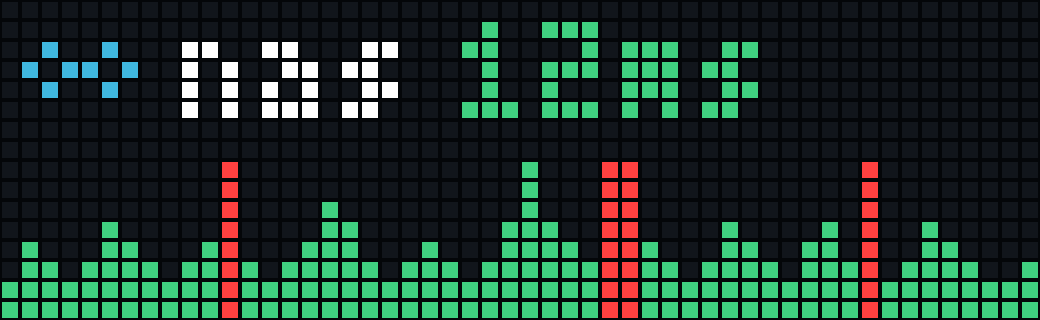
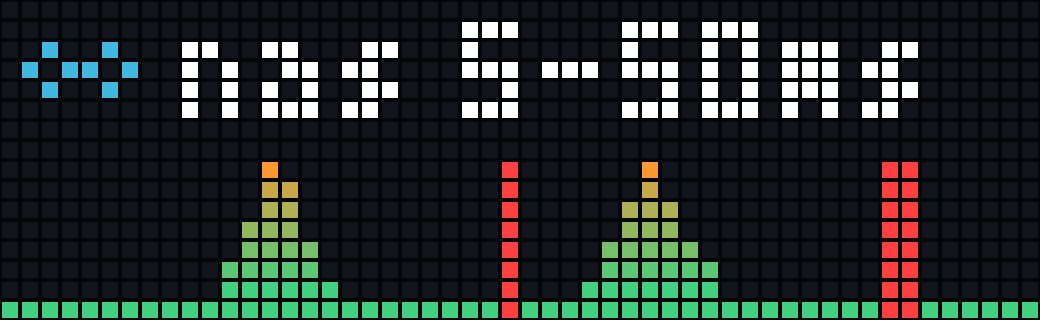
Gradient Graphs and Updated README

Changed region(s): [[0.0, 0.5, 1.0, 1.0], [0.4308, 0.0625, 0.8923, 0.375]]

diff --git a/docs/media/README.md b/docs/media/README.md
@@ -1,16 +1,16 @@
 # AWTRIX Hub media
 
-These images were captured from the real 52×16 TC002 framebuffer running NetworkMonitor 0.27. Screenshots are rendered at **1040×320** with a visible LED matrix: each source pixel occupies a 20×20 cell with a 16×16 LED face and dark gaps. Unlit cells use a dim neutral face so the grid remains visible. Lit-pixel colors and positions are preserved, without smoothing, added labels, or fabricated results. The same presentation is applied to the GIF.
+The page-layout screenshots were captured from the real 52×16 TC002 framebuffer running NetworkMonitor 0.27. The relative-gradient images and updated GIFs use actual framebuffer captures of a synthetic demo of the rendering introduced in 0.30. Screenshots are rendered at **1040×320** with a visible LED matrix: each source pixel occupies a 20×20 cell with a 16×16 LED face and dark gaps. Unlit cells use a dim neutral face so the grid remains visible. Lit-pixel colors and positions are preserved, without smoothing, added labels, or fabricated results. The same presentation is applied to the GIF.
 
 ## AWTRIX Hub cover
 
-[networkmonitor-cover.gif](networkmonitor-cover.gif) is the dedicated **4-second**, **40-frame**, **1040×320** cover (approximately 39 KB). It shows a readable HOME scene followed by a full-width response-history graph with red failure columns. The LED-grid rendering is the same as the screenshots.
+[networkmonitor-cover.gif](networkmonitor-cover.gif) is the dedicated **4-second**, **40-frame**, **1040×320** cover (about 19 KB). It shows a readable HOME scene followed by a full-width relative response-history graph with green-to-orange peaks and red failure columns. The LED-grid rendering is the same as the screenshots.
 
 ![NetworkMonitor Hub cover](networkmonitor-cover.gif)
 
 Still images: [HOME](networkmonitor-cover-home.png) and [history](networkmonitor-cover-history.png).
 
-These cover scenes were rendered on the actual TC002 by a [dedicated demo script](../../tools/NetworkMonitorCover.ax). The IP `192.0.2.1`, host `nas`, counters, response time, and populated history are **synthetic promotional data**, not measured network results. The production script and all its configuration values were restored and compared with the pre-capture backups afterward. The older screenshot series below remains a separate set of real observations with temporary demonstration hosts.
+The HOME cover scene and relative-history scene were recorded on the actual TC002 in separate temporary demos. The cover combines those recordings with an editorial cut. The IP `192.0.2.1`, host `nas`, counters, response times, and populated history are **synthetic promotional data**, not measured network results. The production script and all its configuration values were restored and compared with the pre-capture backups afterward. The older screenshot series below remains a separate set of real observations with temporary demonstration hosts.
 
 ## Files
 
@@ -21,8 +21,7 @@ These cover scenes were rendered on the actual TC002 by a [dedicated demo script
 | NODES / TCP | [nodes-tcp.png](nodes-tcp.png) | [nodes-tcp-with-icon.png](nodes-tcp-with-icon.png) |
 | NODES / HTTP | [nodes-http.png](nodes-http.png) | [nodes-http-with-icon.png](nodes-http-with-icon.png) |
 
-[networkmonitor-demo.gif](networkmonitor-demo.gif) is a looping **26-second**, **5 fps**, **1040×320** animation showing HOME, ALERTS, TCP history, and HTTP results. It combines short recordings of these pages; scene changes are editorial cuts, while text movement within each scene comes from the device. Short page recordings hold their last frame until the next scene.
-
+[networkmonitor-demo.gif](networkmonitor-demo.gif) is a looping **10.8-second**, **10 fps**, **1040×320** animation showing HOME followed by stable, slightly varying and strongly varying relative response histories. These are synthetic demonstrations captured from the device, joined with editorial cuts. It replaces the older page-tour GIF.
 ![NetworkMonitor demonstration](networkmonitor-demo.gif)
 
 ## Capture setup
@@ -42,3 +41,7 @@ These actual TC002 framebuffer captures show synthetic histories using the accep
 - [Large 5–50 ms changes](graph-relative-spikes-device.png): orange peaks, greener falling values and red failures.
 
 The original installed source and every stored configuration value were restored and compared exactly after capture.
+
+## Rendering the updated media
+
+`tools/render_hub_media.py --home <home-capture.json> --relative <relative-capture.json>` renders the privacy-safe framebuffer recordings into PNGs and raw RGB sequences for GIF encoding. The source JSON recordings remain local; they are not shipped with the repository. No device configuration is changed by this rendering step.

diff --git a/README.md b/README.md
@@ -2,7 +2,7 @@
 
 Keep an eye on your network from your AWTRIX NG clock. NetworkMonitor checks TCP services and HTTP endpoints, shows your public IP address, and cycles through a network overview, active failures, and per-host response history.
 
-**Platform:** Ulanzi TC002 · **Display:** 52 × 16 · **Version:** 0.27
+**Platform:** Ulanzi TC002 · **Display:** 52 × 16 · **Version:** 0.30
 
 **Authors:** Dr-Dream / ChatGPT / Codex
 
@@ -16,6 +16,7 @@ Keep an eye on your network from your AWTRIX NG clock. NetworkMonitor checks TCP
 - Public IPv4/IPv6 address retrieval through `http://ifconfig.me` by default.
 - Three pages: HOME, ALERTS, and NODES.
 - Colored results, failure reasons, response times, and a rolling history graph.
+- Relative green-to-orange history: stable responses stay green, large increases turn orange, and failed checks remain red.
 - Automatic page rotation or manual navigation with the knob.
 - Optional animated instance icons: house, VPN shield, server, WiFi, database, and cloud.
 - Configurable colors, intervals, timeouts, scrolling, and page timing.
@@ -77,6 +78,14 @@ The graph fills the lower half of the available interface area:
 - With no samples, a dim baseline is shown. With no configured targets, the page displays `--` and `0 targets`.
 
 The graph is drawn directly below the header across the full available width; the sketch uses punctuation only to suggest bars.
+
+### Relative response history in 0.30
+
+Actual device captures with synthetic data. Colors compare successful response times within each node’s retained history, rather than using fixed millisecond thresholds.
+
+| Stable 5 ms | Small 5–6 ms variation | Large 5–50 ms changes |
+| --- | --- | --- |
+| <img src="docs/media/graph-relative-flat-device.png" alt="Stable responses remain green" width="280"> | <img src="docs/media/graph-relative-jitter-device.png" alt="Small fluctuations receive a slight tint" width="280"> | <img src="docs/media/graph-relative-spikes-device.png" alt="Large increases reach orange; failed checks stay red" width="280"> |
 
 ### Optional instance icon
 
@@ -206,7 +215,7 @@ Complete source: [NetworkMonitor.ax](NetworkMonitor.ax). Implementation details:
 
 ## Screenshots and animation
 
-[Downloadable PNG screenshots and animated GIF](docs/media/README.md) show real device captures made with temporary demonstration hosts. The original host configuration was restored after recording.
+[Downloadable PNG screenshots and animated GIF](docs/media/README.md) include real device captures with temporary demonstration hosts and synthetic promotional scenes. The relative-gradient examples below show the rendering introduced in 0.30; the page-layout captures show 0.27. The original source and configuration were restored after recording.
 
 Screenshots and animation use a visible LED grid with dark gaps between pixels, preserving the captured pixel layout and lit colors.
 

diff --git a/docs/hub-description.md b/docs/hub-description.md
@@ -2,7 +2,7 @@
 
 Keep an eye on your network from your AWTRIX NG clock. NetworkMonitor checks TCP services and HTTP endpoints, shows your public IP address, and cycles through a network overview, active failures, and per-host response history.
 
-**Platform:** Ulanzi TC002 · **Display:** 52 × 16 · **Version:** 0.27
+**Platform:** Ulanzi TC002 · **Display:** 52 × 16 · **Version:** 0.30
 
 **Authors:** Dr-Dream / ChatGPT / Codex
 
@@ -14,6 +14,7 @@ Keep an eye on your network from your AWTRIX NG clock. NetworkMonitor checks TCP
 - Public IPv4/IPv6 address retrieval through `http://ifconfig.me` by default.
 - Three pages: HOME, ALERTS, and NODES.
 - Colored results, failure reasons, response times, and a rolling history graph.
+- Relative green-to-orange history: stable responses stay green, large increases turn orange, and failed checks remain red.
 - Automatic page rotation or manual navigation with the knob.
 - Optional animated instance icons: house, VPN shield, server, WiFi, database, and cloud.
 - Configurable colors, intervals, timeouts, scrolling, and page timing.
@@ -75,6 +76,14 @@ The graph fills the lower half of the available interface area:
 - With no samples, a dim baseline is shown. With no configured targets, the page displays `--` and `0 targets`.
 
 The graph is drawn directly below the header across the full available width; the sketch uses punctuation only to suggest bars.
+
+### Relative response history in 0.30
+
+Actual device captures with synthetic data. Colors compare successful response times within each node’s retained history, rather than using fixed millisecond thresholds.
+
+| Stable 5 ms | Small 5–6 ms variation | Large 5–50 ms changes |
+| --- | --- | --- |
+| <img src="https://raw.githubusercontent.com/Dr-Dream/AwtrixNetworkMonitor/main/docs/media/graph-relative-flat-device.png" alt="Stable responses remain green" width="280"> | <img src="https://raw.githubusercontent.com/Dr-Dream/AwtrixNetworkMonitor/main/docs/media/graph-relative-jitter-device.png" alt="Small fluctuations receive a slight tint" width="280"> | <img src="https://raw.githubusercontent.com/Dr-Dream/AwtrixNetworkMonitor/main/docs/media/graph-relative-spikes-device.png" alt="Large increases reach orange; failed checks stay red" width="280"> |
 
 ### Optional instance icon
 

diff --git a/docs/hub-whats-new.md b/docs/hub-whats-new.md
@@ -1,0 +1,7 @@
+# What’s new in 0.30
+
+- Added a relative green-to-orange gradient to successful response-history bars.
+- Stable response times stay green, even when autoscaling makes the bars tall. Small fluctuations receive a slight tint; substantial increases move toward orange. Lower values become greener again.
+- Colors adapt to each host’s retained successful minimum and maximum, without fixed millisecond thresholds. Failed checks remain solid red.
+- Added **Graph gradient**, **Full orange increase** (default 100%), and **Slow graph color** settings. Disable the gradient to keep solid success-color bars.
+- Updated the device screenshots and animated Hub cover to demonstrate the new history colors.
